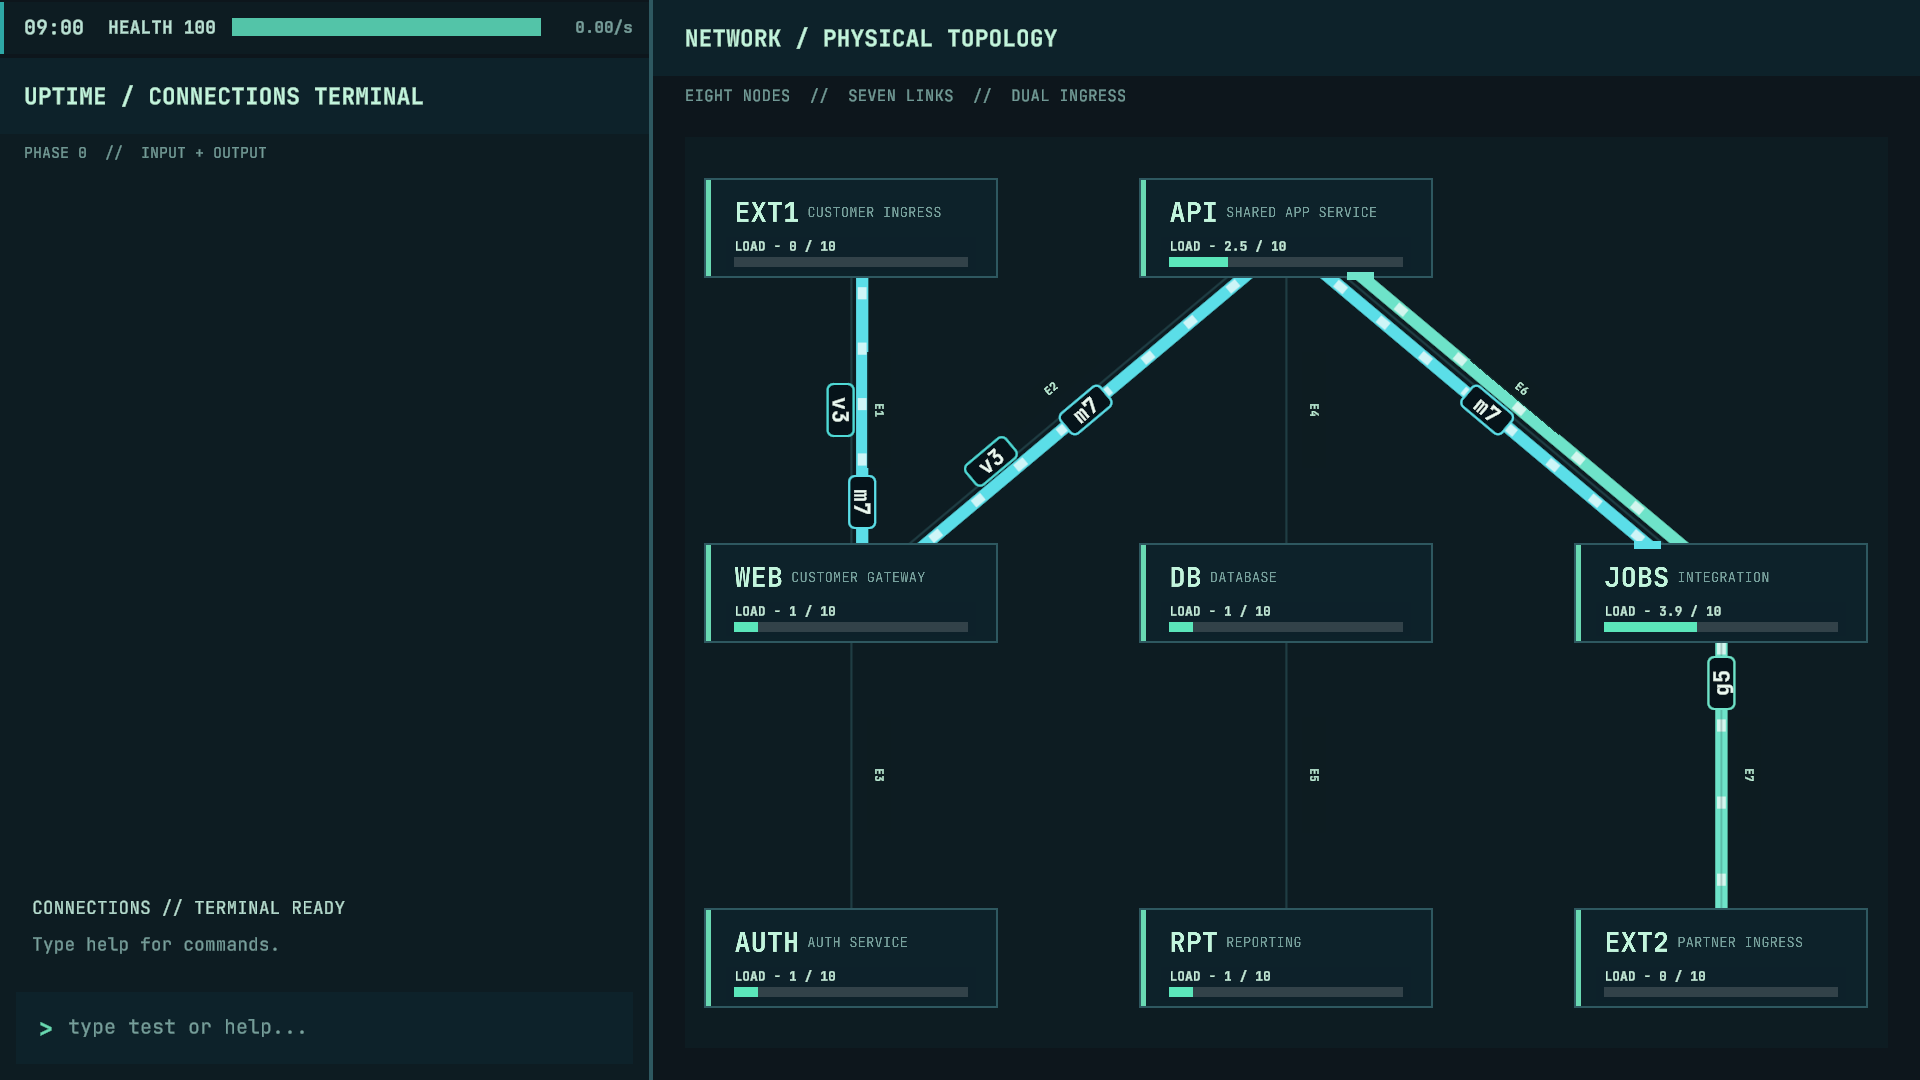
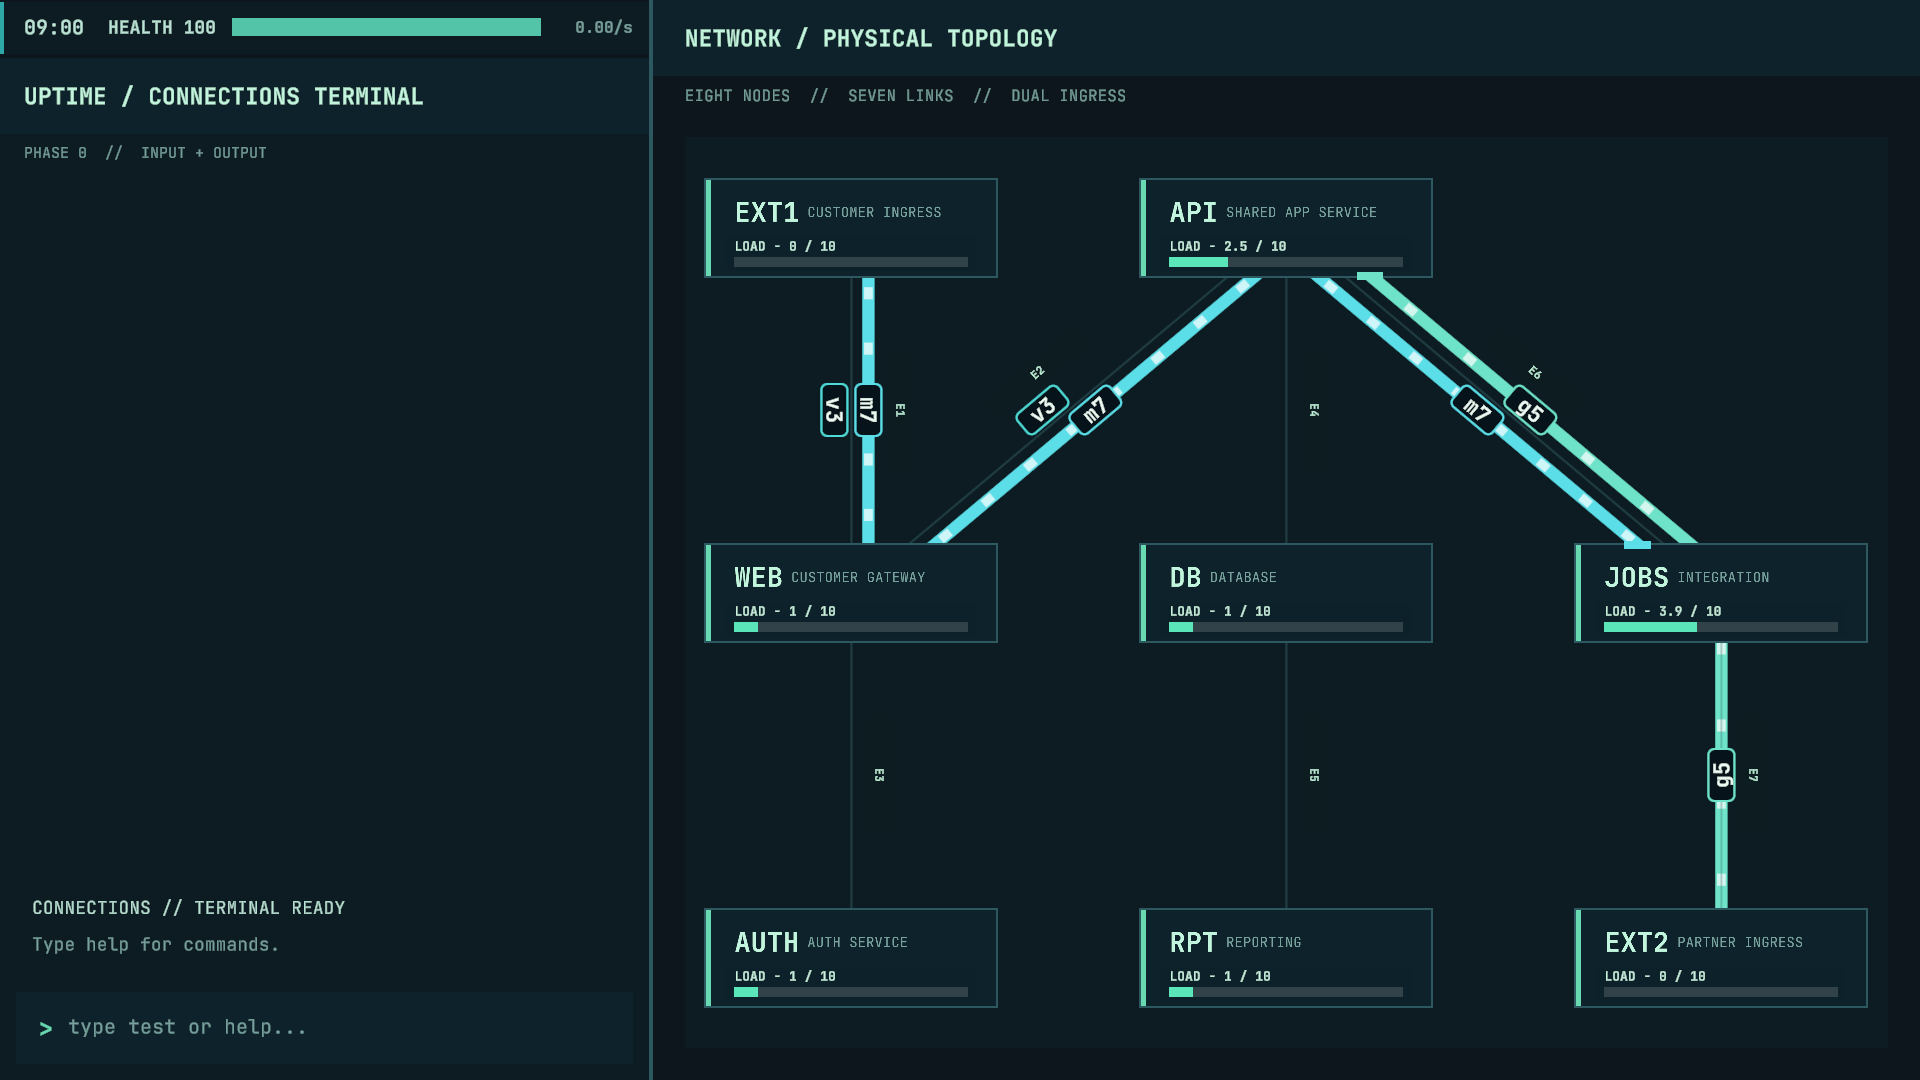
fix(connections): keep link labels beside occupied midpoint

diff --git a/Assets/Editor/GeometryWitness.cs b/Assets/Editor/GeometryWitness.cs
@@ -124,6 +124,7 @@ namespace Uptime.Connections.EditorTools
                     var layout = identity.ResolveLayout(link, count, presenter.MaxLineWidth,
                         presenter.MinLineWidth, presenter.MinLineGap);
                     CheckLayout(layout, link.BundleWidth(presenter.NetworkArea), count);
+                    CheckMidpointLabel(link, layout, presenter.NetworkArea, identity.MinimumPillGap);
                     Rect sourceCard = EdgeGeometry.CardRect(link.NodeA,
                         presenter.NetworkArea);
                     Rect destinationCard = EdgeGeometry.CardRect(link.NodeB,
@@ -150,6 +151,20 @@ namespace Uptime.Connections.EditorTools
                     link.LinkId + " three paths stay at least as wide as four");
             }
             CheckRenderedPillsAtReferenceSize(presenter, identity, links);
+            foreach (PhysicalLinkView link in links)
+            {
+                if (link.ResourceLabel == null) continue;
+                link.SendMessage("LateUpdate");
+                Vector2 a = presenter.NetworkArea.InverseTransformPoint(link.NodeA.transform.position);
+                Vector2 b = presenter.NetworkArea.InverseTransformPoint(link.NodeB.transform.position);
+                Vector2 midpoint = (a + b) * 0.5f;
+                float offset = Vector2.Distance(
+                    presenter.NetworkArea.InverseTransformPoint(link.ResourceLabel.position),
+                    midpoint);
+                float authored = new SerializedObject(link).FindProperty("labelOffset").floatValue;
+                Check(Mathf.Abs(offset - authored) < 0.1f,
+                    link.LinkId + " label resets when paths leave");
+            }
             foreach (IdentityPacking.ReadabilityStage stage in new[] {
                 IdentityPacking.ReadabilityStage.Centered,
                 IdentityPacking.ReadabilityStage.Staggered,
@@ -633,6 +648,26 @@ namespace Uptime.Connections.EditorTools
             solver.Update(dense, area);
             Check(solver.SolveCount == solveCount && string.Join(",", solver.Orders[e1]) == denseOrder,
                 "dense unchanged layout remains stable");
+        }
+
+        private static void CheckMidpointLabel(PhysicalLinkView link,
+            IdentityPacking.Layout layout, RectTransform area, float pillGap)
+        {
+            RectTransform label = link.ResourceLabel;
+            if (label == null) return;
+            Vector2 a = area.InverseTransformPoint(link.NodeA.transform.position);
+            Vector2 b = area.InverseTransformPoint(link.NodeB.transform.position);
+            Vector2 along = (b - a).normalized;
+            Vector2 midpoint = (a + b) * 0.5f;
+            Vector2 labelCenter = area.InverseTransformPoint(label.position);
+            Check(Mathf.Abs(Vector2.Dot(labelCenter - midpoint, along)) < 0.1f,
+                link.LinkId + " label remains at link midpoint");
+            var labelBounds = new IdentityPacking.PillBounds(labelCenter, along,
+                label.rect.size);
+            foreach (var cycle in layout.Schedule)
+                foreach (IdentityPacking.Placement placement in cycle)
+                    Check(!IdentityPacking.Intersects(labelBounds, placement.Bounds, pillGap),
+                        link.LinkId + " midpoint label clears connection pills");
         }
 
         private static void CheckRenderedPillsAtReferenceSize(LogicalPathPresenter presenter,

diff --git a/Assets/Scripts/Connections/IdentityPresenter.cs b/Assets/Scripts/Connections/IdentityPresenter.cs
@@ -154,6 +154,15 @@ namespace Uptime.Connections
                     StaggerStep, EndInset, state.Clearance, obstacles,
                     EdgeGeometry.CardRect(link.NodeA, networkArea),
                     EdgeGeometry.CardRect(link.NodeB, networkArea));
+                if (link.ResourceLabel != null)
+                {
+                    float outerLane = (count - 1) *
+                        (state.Layout.LineWidth + state.Layout.LineGap) * 0.5f;
+                    float occupiedHalfWidth = outerLane +
+                        Mathf.Max(state.Layout.LineWidth, PillSize.y) * 0.5f;
+                    link.SetOccupiedLabelOffset(occupiedHalfWidth +
+                        link.ResourceLabel.rect.height * 0.5f + MinimumPillGap);
+                }
                 state.Cycle = 0;
                 state.NextCycleAt = Clock() + Dwell(state);
                 if (state.Layout.Stage == IdentityPacking.ReadabilityStage.Unavailable &&
@@ -226,6 +235,7 @@ namespace Uptime.Connections
                 foreach (IdentityPillView pill in edges[link].Pills)
                     if (pill != null)
                         DestroyView(pill.gameObject);
+                link.ClearOccupiedLabelOffset();
                 edges.Remove(link);
             }
         }
@@ -350,9 +360,8 @@ namespace Uptime.Connections
 
         private IdentityPacking.PillBounds[] Obstacles(PhysicalLinkView link)
         {
-            return link.ResourceLabel != null ? new[] { Bounds(link.NodeA.transform),
-                Bounds(link.NodeB.transform), Bounds(link.ResourceLabel) } :
-                new[] { Bounds(link.NodeA.transform), Bounds(link.NodeB.transform) };
+            // The midpoint label moves outside the occupied bundle after pill packing.
+            return new[] { Bounds(link.NodeA.transform), Bounds(link.NodeB.transform) };
         }
 
         private IdentityPacking.PillBounds Bounds(Transform target)
@@ -383,9 +392,13 @@ namespace Uptime.Connections
         private void OnDisable()
         {
             foreach (EdgeState state in edges.Values)
+            {
+                if (state.Link != null)
+                    state.Link.ClearOccupiedLabelOffset();
                 foreach (IdentityPillView pill in state.Pills)
                     if (pill != null)
                         DestroyView(pill.gameObject);
+            }
             edges.Clear();
         }
     }

diff --git a/Assets/Scripts/Connections/PhysicalLinkView.cs b/Assets/Scripts/Connections/PhysicalLinkView.cs
@@ -15,10 +15,29 @@ namespace Uptime.Connections
         [SerializeField] private TMP_Text resourceReadout;
         [SerializeField, Min(0f)] private float labelOffset = 26f;
 
+        private float? occupiedLabelOffset;
+
         public string LinkId => linkId;
         public NodeView NodeA => nodeA;
         public NodeView NodeB => nodeB;
         public RectTransform ResourceLabel => label;
+
+        // Keep the label at the link midpoint while active paths need more side clearance.
+        public void SetOccupiedLabelOffset(float minimumOffset)
+        {
+            float next = Mathf.Max(labelOffset, minimumOffset);
+            if (occupiedLabelOffset.HasValue && Mathf.Abs(occupiedLabelOffset.Value - next) < 0.01f)
+                return;
+            occupiedLabelOffset = next;
+            LateUpdate();
+        }
+
+        public void ClearOccupiedLabelOffset()
+        {
+            if (!occupiedLabelOffset.HasValue) return;
+            occupiedLabelOffset = null;
+            LateUpdate();
+        }
 
         // Rebind an authored link copy in the opt-in stress scene.
         public void ConfigureStressLink(string id, NodeView a, NodeView b,
@@ -71,7 +90,8 @@ namespace Uptime.Connections
                 if (normal.y < 0f)
                     normal = -normal;
 
-                label.anchoredPosition = middle + normal * labelOffset;
+                label.anchoredPosition = middle + normal *
+                    (occupiedLabelOffset ?? labelOffset);
                 float angle = Mathf.Atan2(direction.y, direction.x) * Mathf.Rad2Deg;
                 if (angle > 90f)
                     angle -= 180f;

diff --git a/Assets/Editor/AdvancedSceneWitness.cs b/Assets/Editor/AdvancedSceneWitness.cs
@@ -82,6 +82,7 @@ namespace Uptime.Connections.EditorTools
             }
             var links = host.PhysicalLinks.Select(p => p.View).ToArray();
             Check(links.All(l => l != null && l.ResourceLabel != null &&
+                l.ResourceLabel.gameObject.activeInHierarchy &&
                 nodes.ContainsKey(l.NodeA.NodeId) && nodes.ContainsKey(l.NodeB.NodeId)) &&
                 links.Select(l => l.LinkId).Distinct().Count() == 7,
                 "link labels, endpoints and unique IDs");

diff --git a/Docs/Review/ConnectionsAdvancedSceneV0/README.md b/Docs/Review/ConnectionsAdvancedSceneV0/README.md
@@ -32,6 +32,24 @@ zero card overlaps, viewport overflow, link crossings, links through other cards
 or links shorter than 120 px; the shortest visible physical link is **269 px**.
 The scripted Play Mode run produced no full-size identity-pill fit warnings.
 
+## Midpoint link-label pass
+
+Connection pills now pack without treating the `E#` label as a fixed midpoint
+obstacle. The label keeps its midpoint along the link and moves only perpendicular
+to clear the occupied path lanes and full-size pills. When the link empties, it
+returns to its authored offset. The label objects and their scene bindings remain
+in place. This presentation rule applies to both Connections scenes; it does not
+change topology, traffic, resources, or simulation.
+
+The Geometry Witness passed on the four-node scene and checks that label centers
+stay at link midpoints and clear every planned pill. The Advanced Scene Witness
+passed with all seven labels still bound and visible. In a fixed-seed 1701 Play
+Mode capture at 90 simulated seconds, the EXT1-WEB pills moved to the center
+while E1 stayed at the midpoint beside them. A second capture at 335 seconds had
+14 active connections; its busiest edges used the existing staggered and overlaid
+pill stages while link labels remained outside the occupied bundles. No
+full-size-pill fit warnings appeared in either capture.
+
 | Seed | Ambient benign | Ambient hostile | EXT1 / EXT2 plans | Peak active connections | Delivered infections |
 | --- | ---: | ---: | ---: | ---: | ---: |
 | 1701 | 24 | 11 | 23 / 12 | 14 | 6 |
@@ -46,8 +64,10 @@ witness recorded a legitimate EXT1 connection canceled at WEB with cause
 from DB to eligible internal destinations. The JSON logs are under
 `Temp/AdvancedSceneValidation/Logs/UptimeRuns/` in the local isolated project.
 
-The [traffic](advanced-play-traffic.png) and
-[multi-ID inspection](advanced-play-inspect.png) images are scripted batch
+Compare the [original fixed-label traffic capture](advanced-play-traffic-before-midpoint-labels.png)
+with the [midpoint-label traffic capture](advanced-play-traffic.png). The
+[crowded capture](advanced-play-crowded.png) and
+[multi-ID inspection](advanced-play-inspect.png) are also scripted batch
 **Play Mode** captures at 1920×1080. The capture script exercised `scan DB`,
 `kill m7`, `mark`, `log save`, and `inspect -v m7 g5`. It opened `clean DB`, but
 the offscreen batch capture did not advance the overlay's real-time typing
